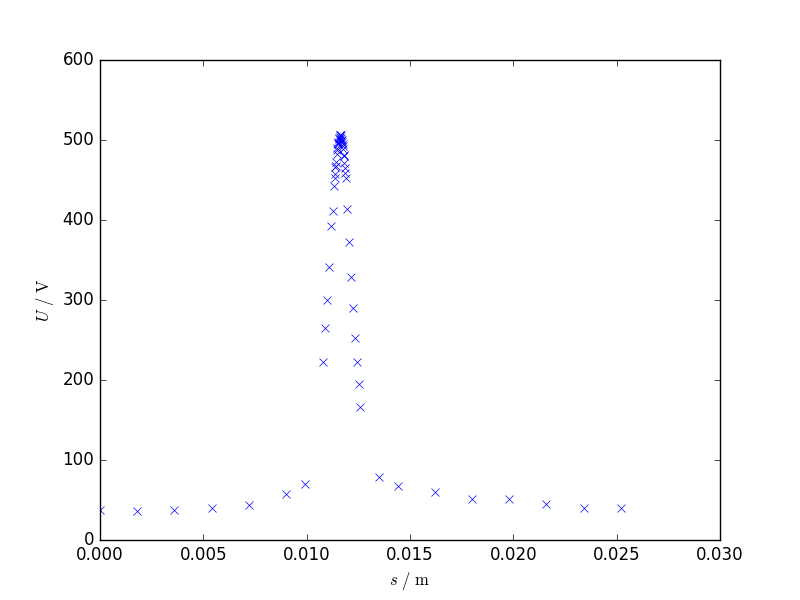
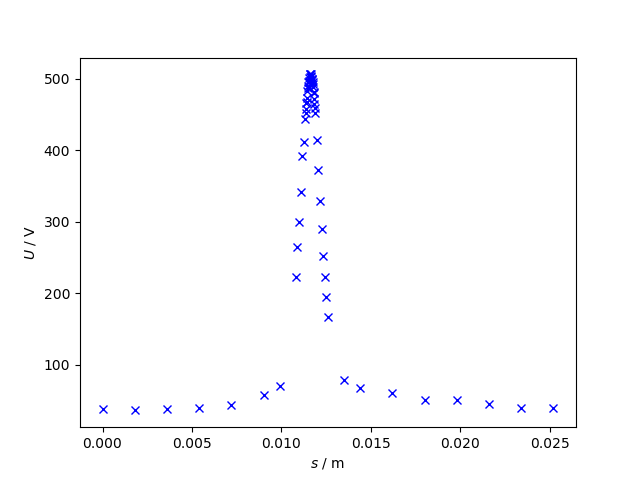
Erste Messdaten

diff --git a/v25/python/plotwerte.py b/v25/python/plotwerte.py
@@ -7,7 +7,7 @@ U_unc = 2  # fehler auf spannung +-2
 um_0, U_0 = np.genfromtxt("m_0.txt", unpack=True)
 um_1, U_1 = np.genfromtxt("m_1.txt", unpack=True)
 um_2, U_2 = np.genfromtxt("m_2.txt", unpack=True)
-# um_0, U_3 = np.genfromtxt("m_0.txt", unpack=True)
+um_3, U_3 = np.genfromtxt("m_3.txt", unpack=True)
 # um_0, U_4 = np.genfromtxt("m_0.txt", unpack=True)
 # um_0, U_5 = np.genfromtxt("m_0.txt", unpack=True)
 # um_0, U_6 = np.genfromtxt("m_0.txt", unpack=True)
@@ -21,7 +21,7 @@ def umrechnen(umdreh):
 s_0 = umrechnen(um_0)
 s_1 = umrechnen(um_1)
 s_2 = umrechnen(um_2)
-# s_3 = umrechnen(um_3)
+s_3 = umrechnen(um_3)
 # s_4 = umrechnen(um_4)
 # s_5 = umrechnen(um_5)
 # s_6 = umrechnen(um_6)
@@ -35,9 +35,11 @@ def plot_SU(s, U, nummer):
     plt.plot(s, U, 'bx')
     plt.xlabel(r'$ s \ / \ \mathrm{m} $')
     plt.ylabel(r'$ U \ / \ \mathrm{V} $')
-    plt.savefig("plots/plot_" + nstr)
-
+    #plt.savefig("plots/plot_" + nstr)
+    plt.show()
 # plotten
 plot_SU(s_0, U_0, 0)
 plot_SU(s_1, U_1, 1)
 plot_SU(s_2, U_2, 2)
+plot_SU(s_3, U_3, 3)
+
